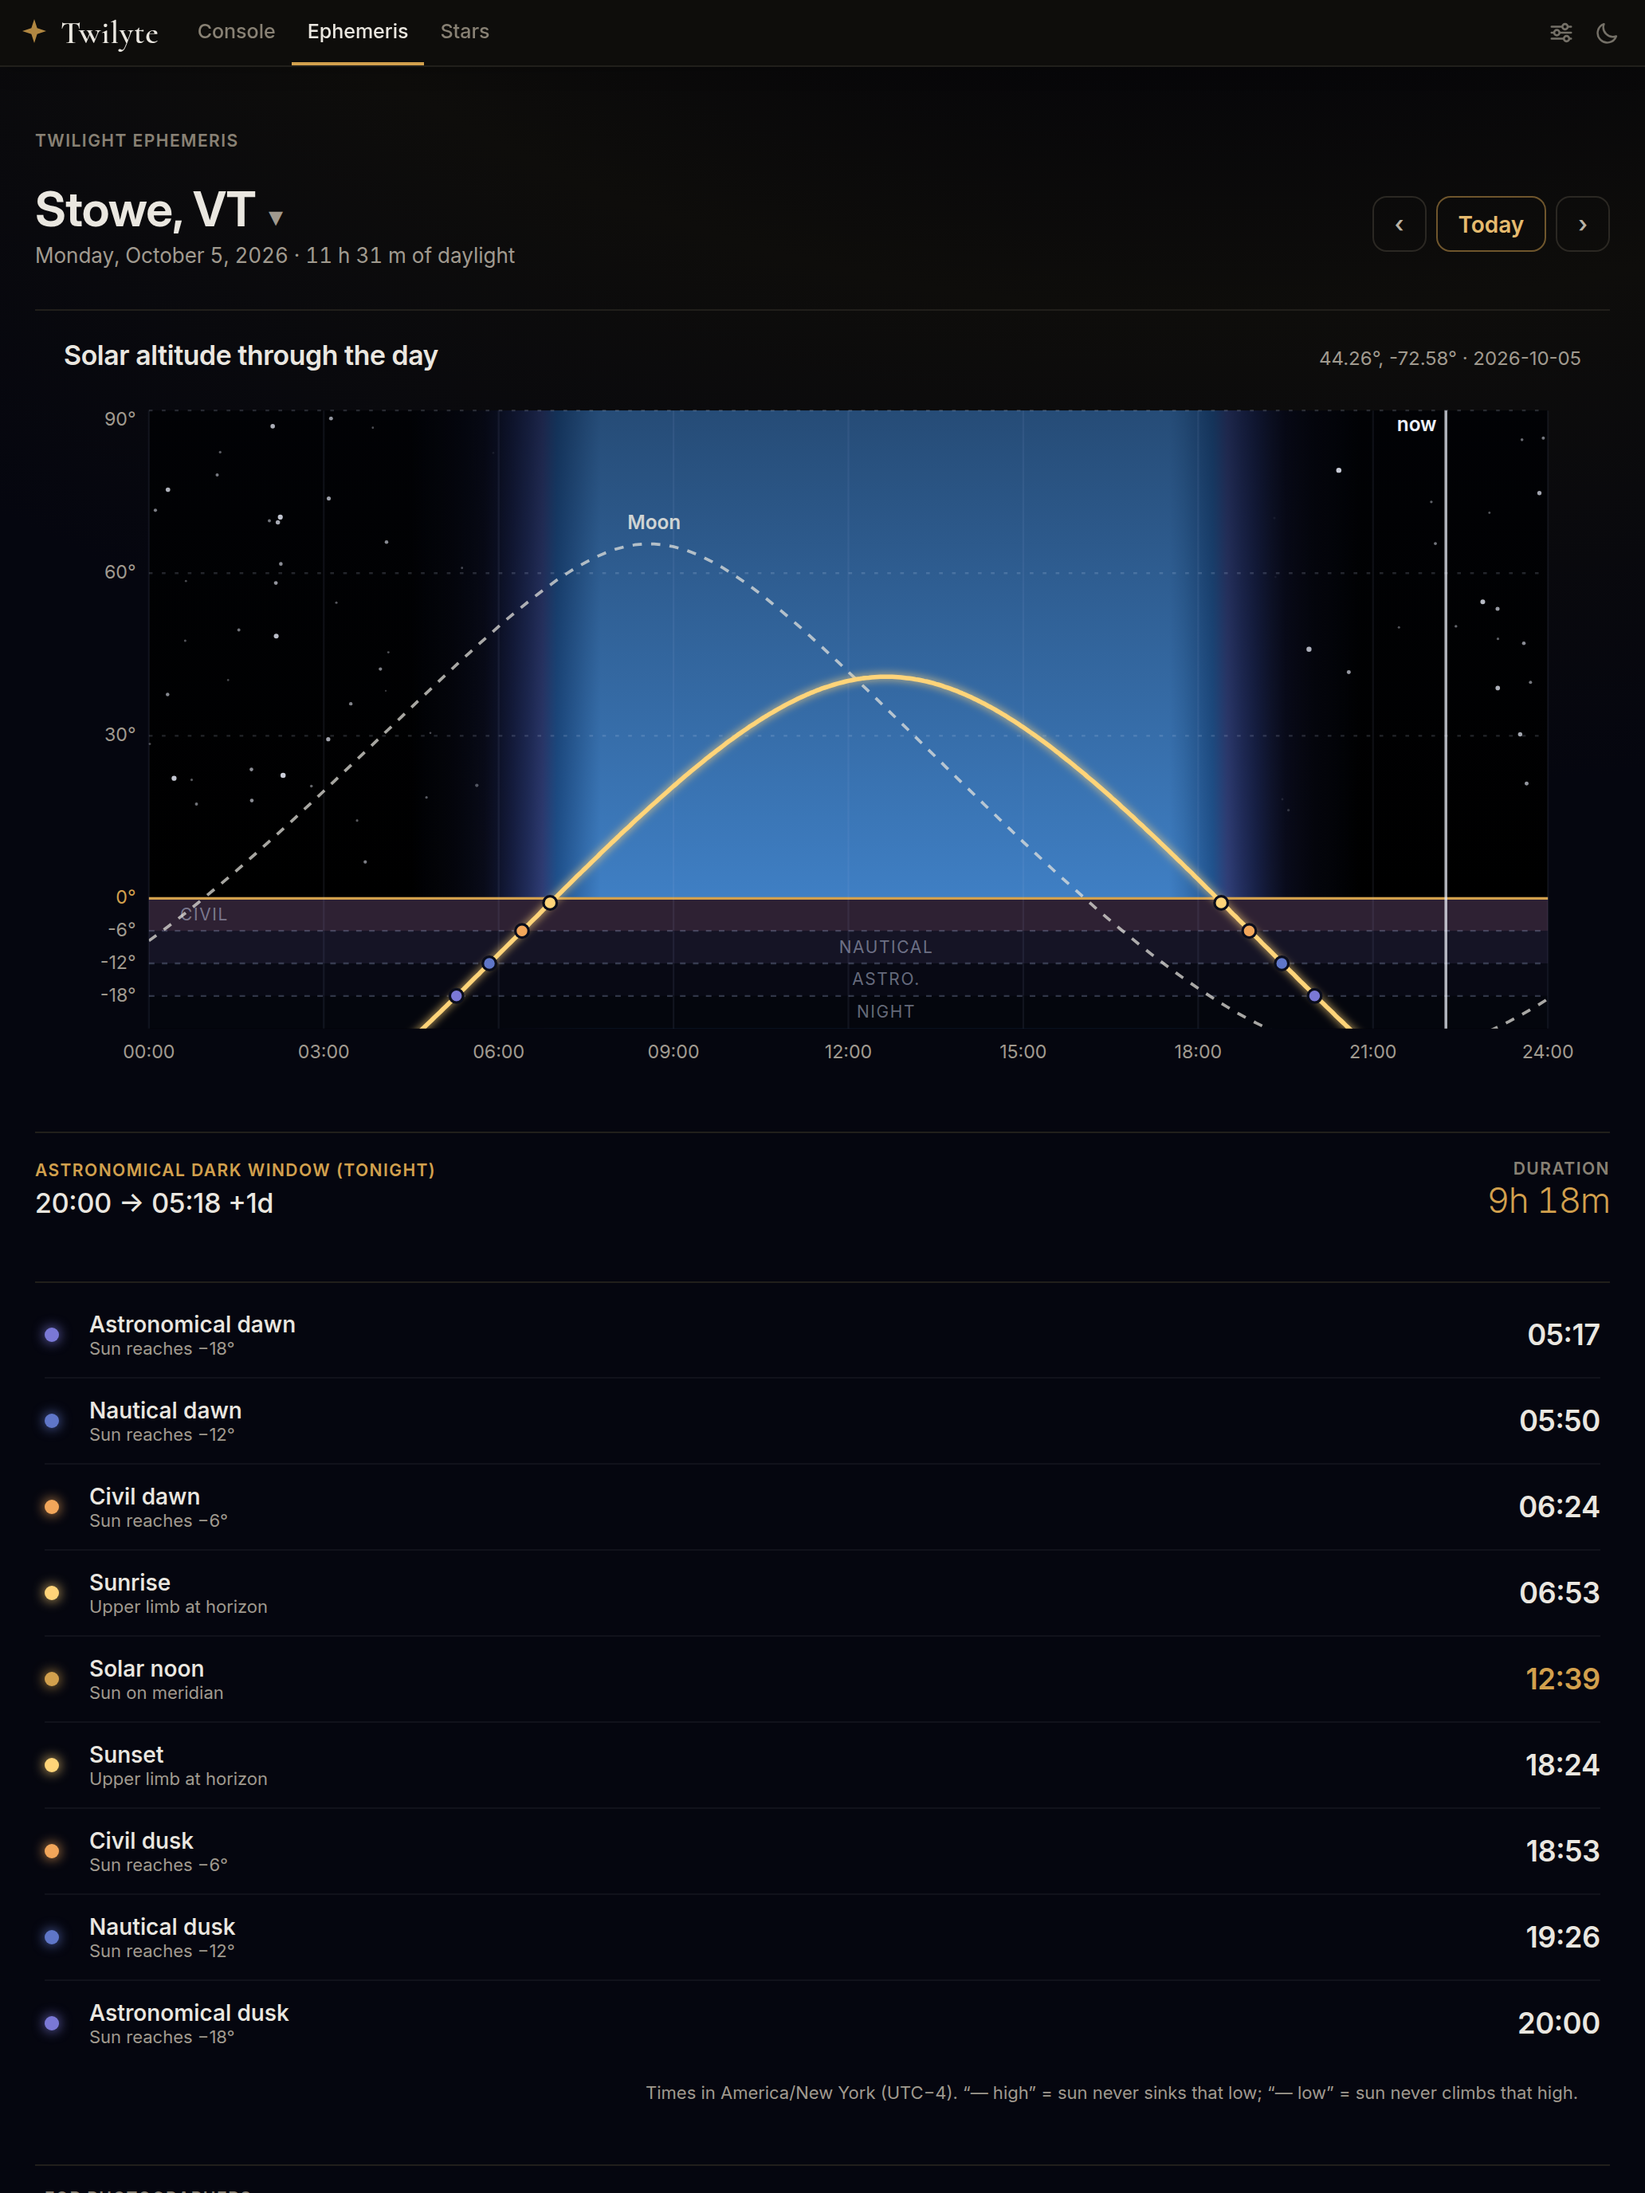
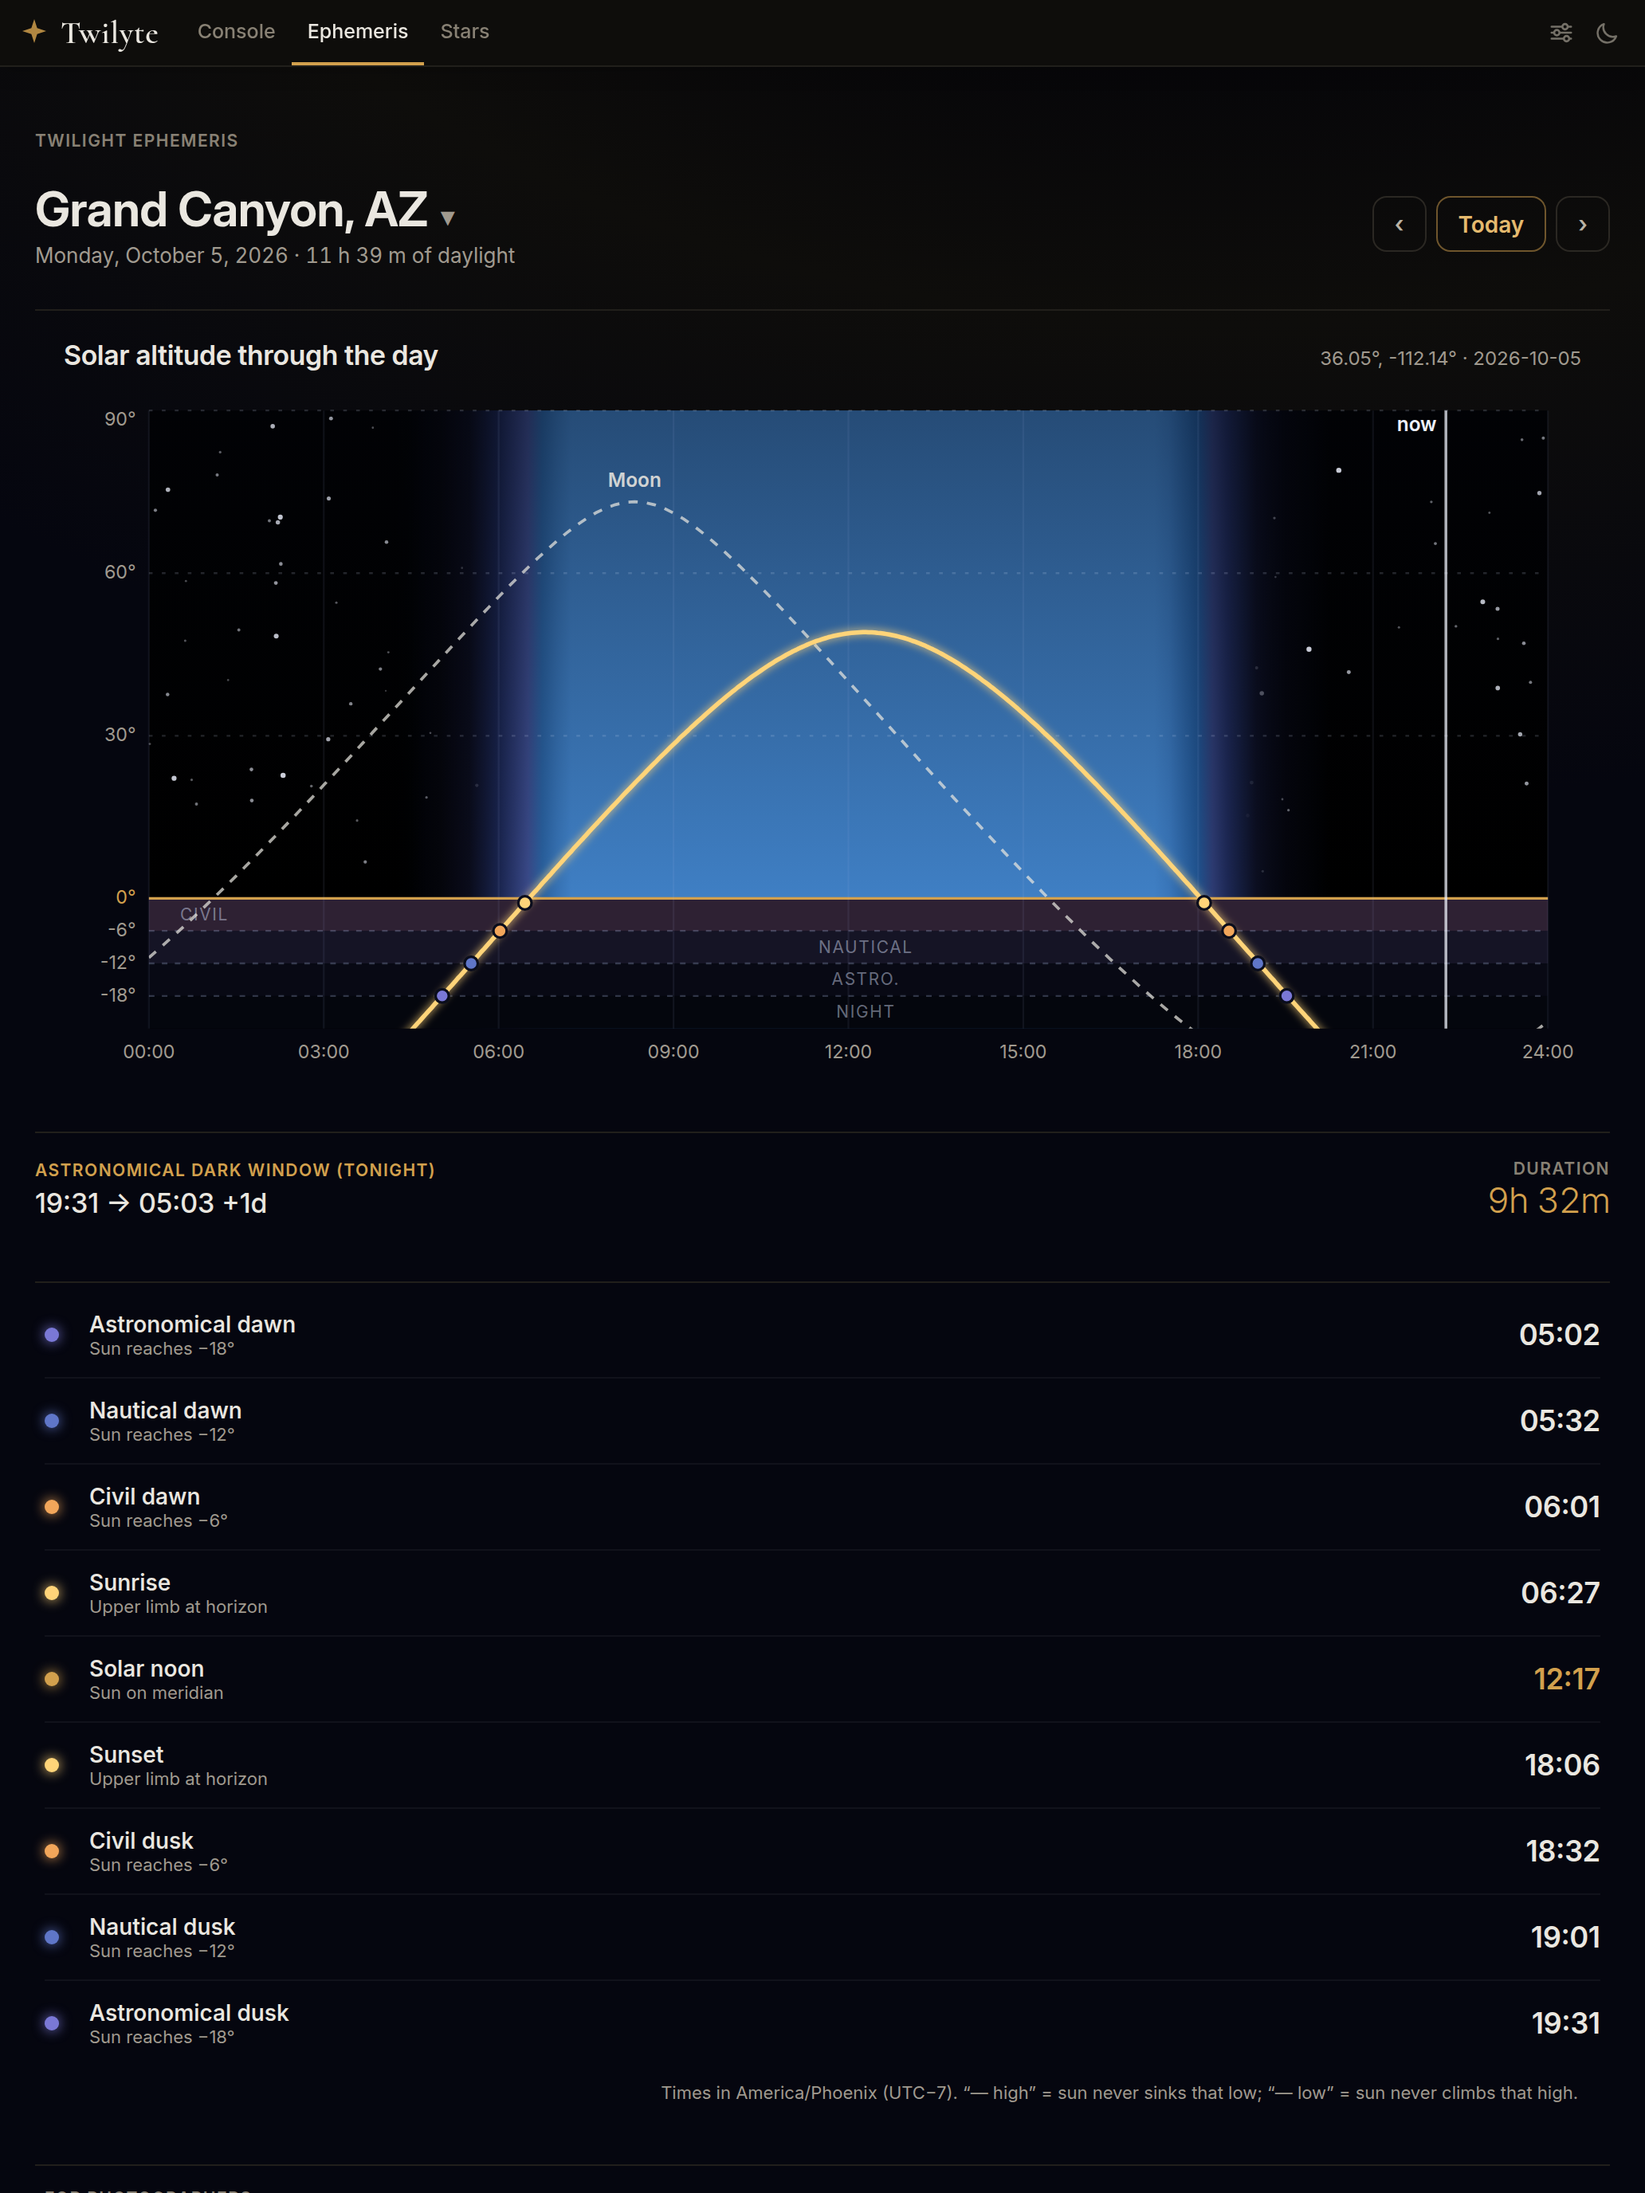
Store screenshots: taken at the Grand Canyon
The owner chose the Grand Canyon's South Rim over Stowe, VT for the
store shots: a place everyone knows, and Bortle 2 by the app's own
satellite tiles, so the painting and Sky View are full of stars and
the Console's darkness section reads "2 of 9, Truly dark sky". The
generator's place, time zone (America/Phoenix, UTC-7 all year), mock
forecast offset and "tonight" instant (22:15 local) now come from
PLACE and UTC_OFFSET_H. The iOS set and the PWA install shots are
retaken there.

Claude-Session: https://claude.ai/code/session_01JLxQkkPkejD7RFi85mio69

diff --git a/store-assets/generate.js b/store-assets/generate.js
@@ -36,12 +36,19 @@ const IPHONE = { w: W, h: H, dsr: DSR, mobile: true, app: 'ios' };
 // would screenshot a layout no real iPad shows.
 const IPAD = { w: 1032, h: 1376, dsr: 2, mobile: false, app: 'ios' };
 
+// Where the shots are taken (owner, 2026-10-05): the Grand Canyon's South
+// Rim, recognised everywhere and a dark sky (Bortle 2 by the app's own
+// satellite data), so the painting and Sky View are full of stars. Arizona
+// keeps standard time all year (UTC-7), so the clock never shifts.
+const PLACE = { lat: 36.0544, lon: -112.1401, name: "Grand Canyon, AZ", tz: "America/Phoenix" };
+const UTC_OFFSET_H = -7;
+
 // Synthetic Open-Meteo response: clear for the next 48h (so tonight's card
 // and the week planner's first rows agree), then a varied pattern so the
 // planner shows a mix of clear/cloudy/rain nights — a more representative
 // store screenshot than an all-clear week.
 function mkForecast() {
-  const off = -4 * 3600; // EDT
+  const off = UTC_OFFSET_H * 3600;
   const base = Math.floor(Date.now() / 3600000) * 3600000;
   const time = [], cc = [], hi = [], pp = [];
   for (let i = -1; i < 8 * 24; i++) {
@@ -52,20 +59,19 @@ function mkForecast() {
     else { const day = Math.floor(i / 24); v = [8, 8, 65, 20, 90, 35, 12, 55][day % 8]; }
     cc.push(v); hi.push(0); pp.push(i >= 96 && i < 120 ? 60 : 0);
   }
-  return { utc_offset_seconds: off, timezone: "America/New_York", hourly: { time, cloud_cover: cc, cloud_cover_high: hi, precipitation_probability: pp } };
+  return { utc_offset_seconds: off, timezone: PLACE.tz, hourly: { time, cloud_cover: cc, cloud_cover_high: hi, precipitation_probability: pp } };
 }
 
-// Fixed instant: tonight at ~22:15 local, so the mock forecast (anchored to
+// Fixed instant: tonight at 22:15 local, so the mock forecast (anchored to
 // the real current hour) lines up with what the app's clock shows.
-const tonight = new Date(Math.floor(Date.now() / 86400000) * 86400000 + 26.25 * 3600000);
+const tonight = new Date(Math.floor(Date.now() / 86400000) * 86400000 + (22.25 - UTC_OFFSET_H) * 3600000);
 
 async function capture(browser, tab, outPath, after, device) {
   const d = device || IPHONE;
-  const ctx = await browser.newContext({ viewport: { width: d.w, height: d.h }, deviceScaleFactor: d.dsr, isMobile: d.mobile, timezoneId: 'America/New_York' });
+  const ctx = await browser.newContext({ viewport: { width: d.w, height: d.h }, deviceScaleFactor: d.dsr, isMobile: d.mobile, timezoneId: PLACE.tz });
   // Location isn't granted: with a saved place the app's own try is quiet,
-  // and a refusal keeps the place, so the shots name it ("Stowe, VT", a
-  // moderately dark sky that shows the star field well) rather than "Your
-  // location".
+  // and a refusal keeps the place, so the shots name it rather than say
+  // "Your location".
   const page = await ctx.newPage();
   // The App Store shots must show the app, not the website: the page looks
   // for Capacitor's bridge to leave out the website's "PRO" badge and "free
@@ -75,12 +81,12 @@ async function capture(browser, tab, outPath, after, device) {
   if (d.app) await page.addInitScript(platform => {
     window.Capacitor = { getPlatform: () => platform, Plugins: {} };
   }, d.app);
-  await page.addInitScript(() => {
-    localStorage.setItem('tw_loc', JSON.stringify({ lat: 44.2601, lon: -72.5806, name: "Stowe, VT", tz: "America/New_York" }));
+  await page.addInitScript(place => {
+    localStorage.setItem('tw_loc', JSON.stringify(place));
     localStorage.setItem('tw_bortle_mode', 'auto');
     localStorage.setItem('tw_hint', '1'); // dismiss the onboarding banner for a cleaner shot
     localStorage.setItem('tw_welcomed', '1'); // and skip the first-run welcome
-  });
+  }, PLACE);
   await page.route('**/api.open-meteo.com/**', r => r.fulfill({ status: 200, contentType: 'application/json', body: JSON.stringify(mkForecast()) }));
   await page.clock.install({ time: tonight });
   // Do NOT swallow navigation failures. These images get committed, and a

diff --git a/CLAUDE.md b/CLAUDE.md
@@ -1769,7 +1769,8 @@ that and is kept for its design detail):**
   **A name steps off a body's label** (2026-10-05: "PISCIS AUSTRINUS" was
   written across "Fomalhaut" in a store shot): `drawSkyView` notes where
   each named body's label will go first (`labelled()`, the one rule both
-  passes use), and a name moves a line down or up, or is left off. The
+  passes use), and a name moves a line down or up, or is left off; the
+  line it takes must also be clear of the names already written. The
   horizon's compass letters keep out of the same top and bottom bands
   (they were written on Sky View's bottom line with the horizon low).
   `sky-view-preview.test.js`.
@@ -1785,8 +1786,12 @@ The Console shots were retaken when the horizon view became the default
 the Bortle block. `generate.js` now loads the page **as the iPhone app does**
 (`app: 'ios'`: a `window.Capacitor` with no plugins), so the App Store shots
 have none of the website's "PRO", "free preview", Share link or visit count,
-and it grants no location, so the Console names the saved place ("Stowe,
-VT"), not "Your location". The PWA shots stay the website. The Android shots
+and it grants no location, so the Console names the saved place, not
+"Your location". **The place is the Grand Canyon, AZ** (owner, 2026-10-05;
+it was Stowe, VT): recognised everywhere and Bortle 2 by the app's own
+tiles, so the shots are full of stars and the Console says "Truly dark
+sky". `PLACE` and `UTC_OFFSET_H` in `generate.js` (Arizona keeps UTC-7 all
+year). The PWA shots stay the website. The Android shots
 (`generate-android.js`) still show the website's words: give them the same
 treatment (`'android'`) before the Play listing.
 
